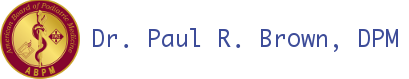
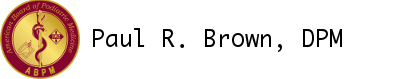
changed nav image and added media query for nav image

Changed region(s): [[0.2054, 0.3544, 0.8509, 0.6582], [0.8802, 0.3544, 0.9976, 0.6076], [0.7922, 0.6329, 0.8215, 0.6582]]

diff --git a/index.html b/index.html
@@ -1,7 +1,7 @@
 <!DOCTYPE html>
 <html>
   <head>
-    <title>Dr. Paul Brown, DPM | Home</title>
+    <title>Paul Brown, DPM | Home</title>
     <link rel="shortcut icon" href="./Resources/Images/favicon.ico" type="image/x-icon">
     <link rel="icon" href="./Resources/Images/favicon.ico" type="image/x-icon">
     <link href="./Resources/CSS/index.css" type="text/css" rel="stylesheet">
@@ -18,7 +18,7 @@
     </nav>
     <div class="jumbotron">
       <img src="./Resources/Images/JumbotronImages/Jumbotron.jpg">
-      <h1>Dr. Paul R. Brown, DPM</h1>
+      <h1>Paul R. Brown, DPM</h1>
       <p>Diplomate of the American Board of Podriatric Surgery</p>
     </div>
     <div class="info">

diff --git a/Resources/CSS/services.css b/Resources/CSS/services.css
@@ -19,6 +19,10 @@ nav {
   justify-content: space-between;
 }
 
+nav h2 {
+  display: none;
+}
+
 nav img {
   height: 5rem;
   padding-left: 2rem;
@@ -100,4 +104,17 @@ ul li:hover {
   color: black;
   text-decoration: none;
   padding-right: 2rem;
+}
+
+/*Media Queries*/
+
+@media only screen and (max-width: 1045px) {
+  nav img {
+    display: none;
+  }
+
+  nav h2 {
+    display: inline;
+    padding-left: 2rem;
+  }
 }

diff --git a/Resources/CSS/contact.css b/Resources/CSS/contact.css
@@ -24,6 +24,10 @@ nav img {
   padding-left: 2rem;
 }
 
+nav h2 {
+  display: none;
+}
+
 ul li {
   display: inline;
   margin-right: 2rem;
@@ -78,4 +82,15 @@ ul li:hover {
   color: black;
   text-decoration: none;
   padding-right: 2rem;
+}
+
+@media only screen and (max-width: 1045px) {
+  nav img {
+    display: none;
+  }
+
+  nav h2 {
+    display: inline;
+    padding-left: 2rem;
+  }
 }

diff --git a/Resources/CSS/forms.css b/Resources/CSS/forms.css
@@ -25,6 +25,10 @@ nav img {
   padding-left: 2rem;
 }
 
+nav h2 {
+  display: none;
+}
+
 ul li {
   display: inline;
   margin-right: 2rem;
@@ -92,4 +96,15 @@ ul li:hover {
   color: black;
   text-decoration: none;
   padding-right: 2rem;
+}
+
+@media only screen and (max-width: 1045px) {
+  nav img {
+    display: none;
+  }
+
+  nav h2 {
+    display: inline;
+    padding-left: 2rem;
+  }
 }

diff --git a/contact.html b/contact.html
@@ -9,6 +9,7 @@
   <body>
     <nav>
       <img src="./Resources/Images/NavHeader.png">
+      <h2>Paul R. Brown, DPM</h2>
       <ul>
         <a href="./index.html"><li id="home" target="_blank">Home</li></a>
         <a href="./services.html" target="_blank"><li id="services">Services</li></a>

diff --git a/forms.html b/forms.html
@@ -9,6 +9,7 @@
   <body>
     <nav>
       <img src="./Resources/Images/NavHeader.png">
+      <h2>Paul R. Brown, DPM</h2>
       <ul>
         <a href="./index.html" target="_blank"><li id="home">Home</li></a>
         <a href="./services.html" target="_blank"><li id="services">Services</li></a>

diff --git a/services.html b/services.html
@@ -9,6 +9,7 @@
   <body>
     <nav>
       <img src="./Resources/Images/NavHeader.png">
+      <h2>Paul R. Brown, DPM</h2>
       <ul>
         <a href="./index.html" target="_blank"><li id="home">Home</li></a>
         <a href="./services.html"><li id="services">Services</li></a>
